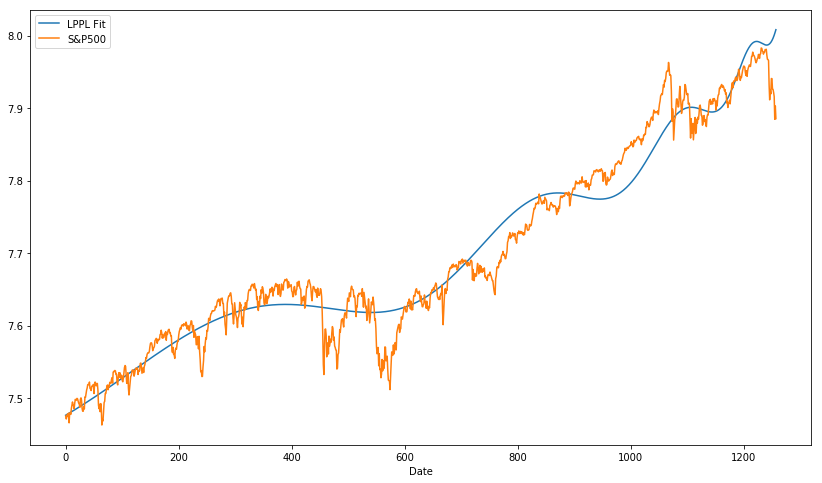
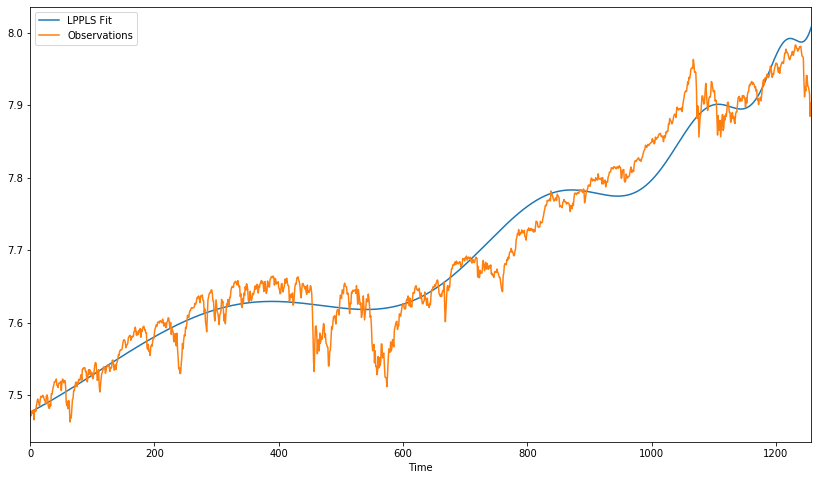
update readme img

diff --git a/README.md b/README.md
@@ -1,4 +1,3 @@
-![PyPI 📦](https://github.com/Boulder-Investment-Technologies/lppls/workflows/PyPI%20%F0%9F%93%A6/badge.svg?branch=master)
 # Log Periodic Power Law Singularity (LPPLS) Model 
 `lppls` is a Python module for fitting the LPPLS model to data.
 
@@ -46,17 +45,16 @@ pip install -U lppls
 
 ## Example Use
 ```python
-from datetime import datetime
 from lppls import lppls
 import numpy as np
 import pandas as pd
 %matplotlib inline
 
 # read example dataset into df 
-data = pd.read_csv('data/sp500.csv', index_col='Date', parse_dates=True)
+data = pd.read_csv('/Users/joshnielsen/research/learning-lppl/data/sp500.csv', index_col='Date')
 
 # convert index col to list of timestamps
-timestamp = [datetime.timestamp(dt) for dt in data.index]
+timestamp = np.linspace(0, len(data)-1, len(data))
 
 # create list of observation data, in this case, 
 # daily adjusted close prices of the S&P 500
